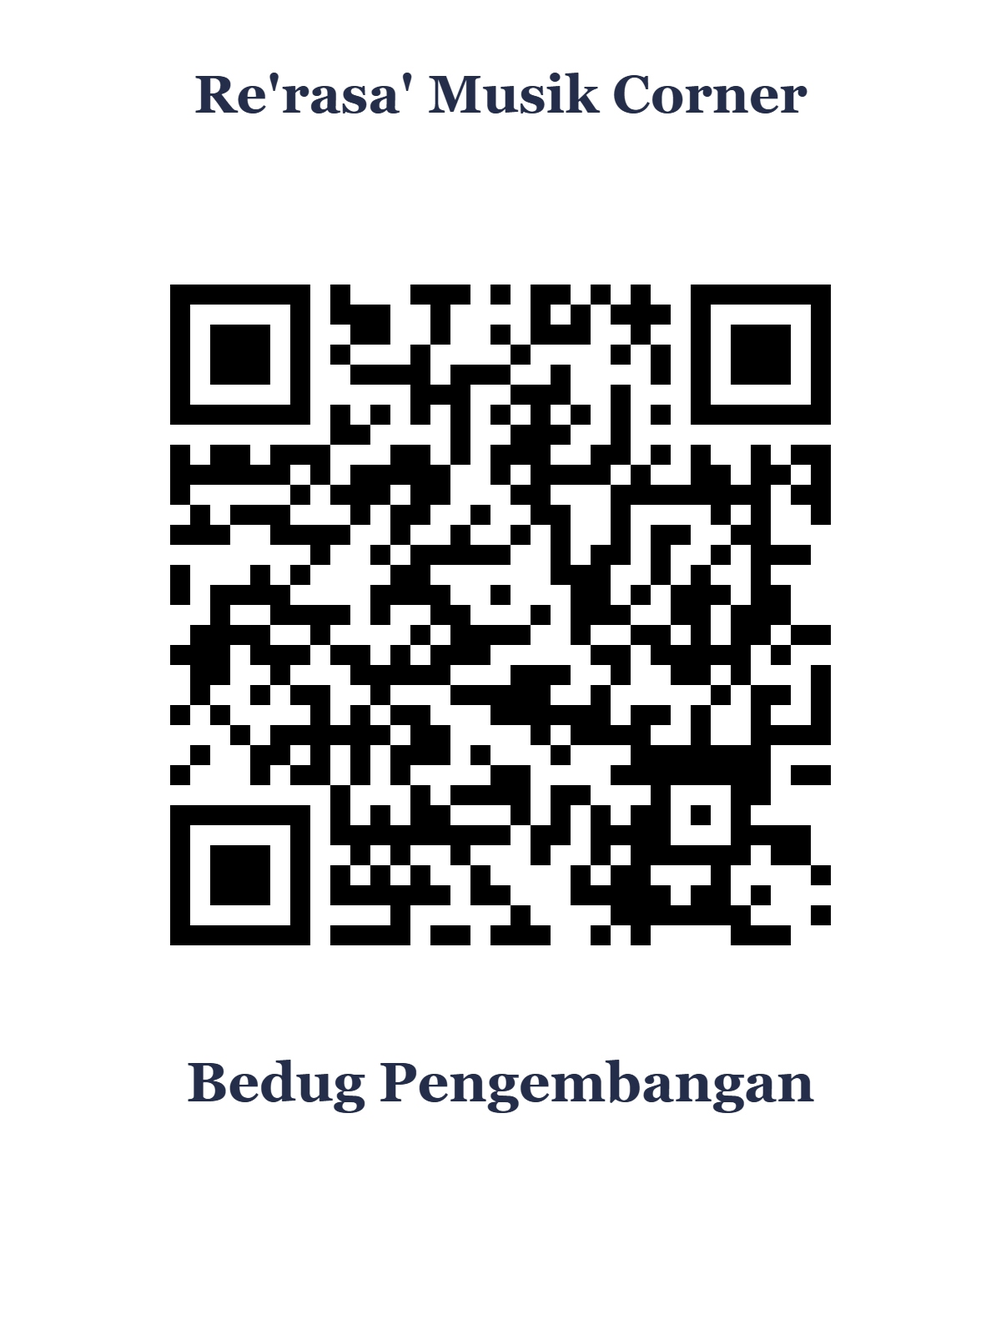
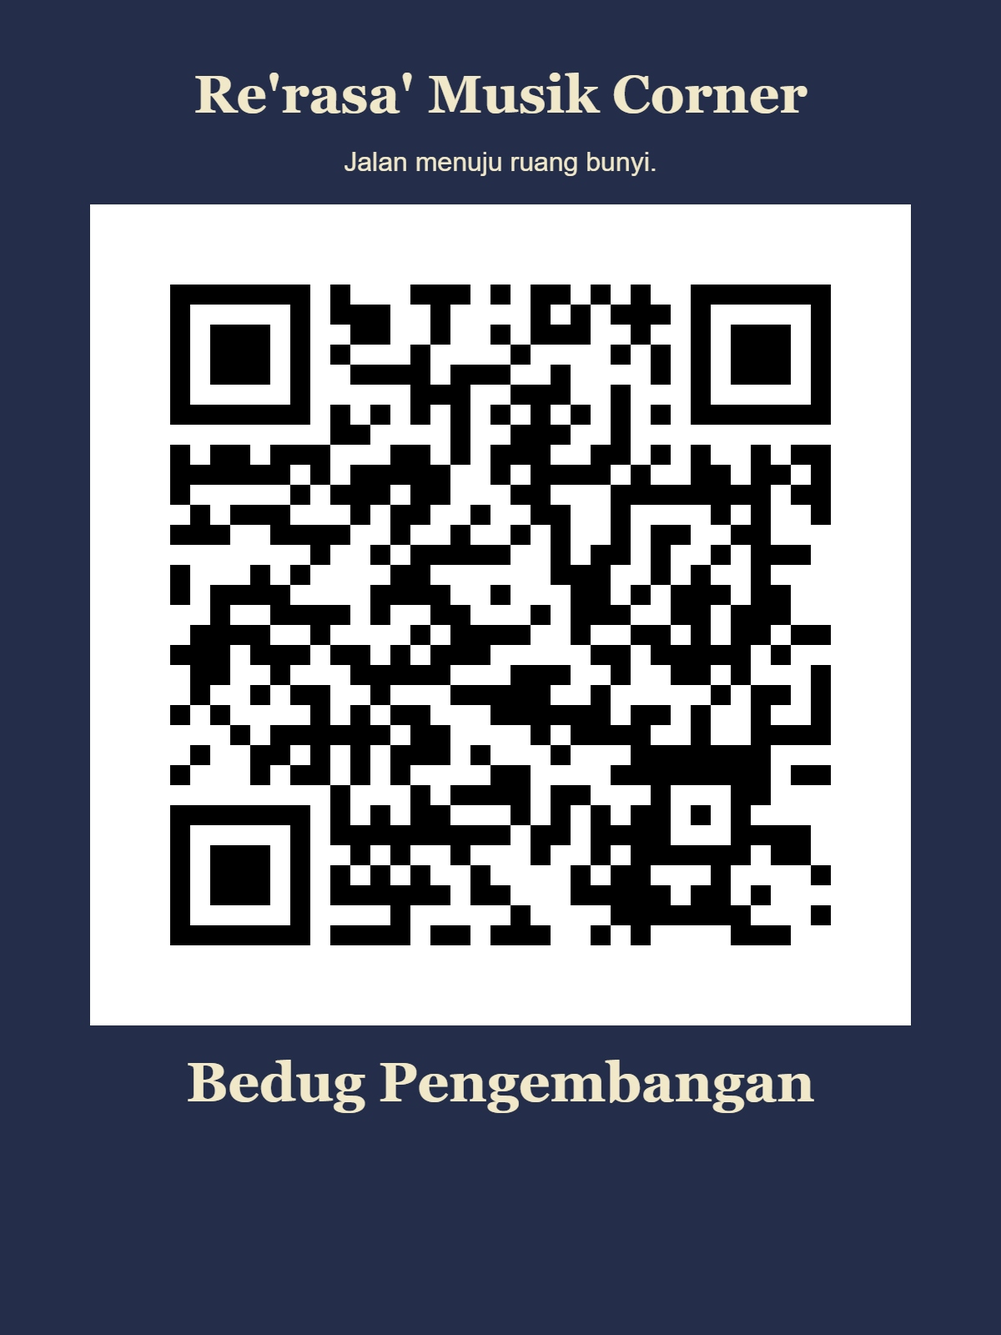
Center QR labels without URLs and apply navy cream print design

diff --git a/app.js b/app.js
@@ -18,7 +18,7 @@ if(page==='beranda'){main.innerHTML='<section class="hero"><div><span class="eye
 else if(page==='koleksi'||page==='dengarkan'){main.innerHTML=intro(page==='koleksi'?'Koleksi instrumen':'Dengarkan bunyi tradisi','Eksplorasi '+items.length+' instrumen yang tersedia dalam prototipe.')+(page==='dengarkan'?'<p class="note">Belum ada berkas rekaman asli pada sumber. Tombol Dengar demo menghasilkan nada sintetis untuk menguji pemutar; bukan representasi autentik instrumen.</p>':'')+'<form class="filters" onsubmit="return false"><label>Cari instrumen<input id="search" type="search" placeholder="Nama, daerah, atau teknik"></label><label>Klasifikasi<select id="category"><option value="">Semua klasifikasi</option>'+[...new Set(items.map(x=>x.category))].map(x=>'<option>'+esc(x)+'</option>').join('')+'</select></label><label>Wilayah<select id="region"><option value="">Semua wilayah</option>'+[...new Set(items.flatMap(x=>x.region.split(' ')))].filter(x=>!['sulawesi','selatan'].includes(x)).map(x=>'<option>'+esc(x)+'</option>').join('')+'</select></label><label>Teknik<select id="technique"><option value="">Semua teknik</option>'+[...new Set(items.map(x=>x.technique))].map(x=>'<option>'+esc(x)+'</option>').join('')+'</select></label><button type="button" id="favoriteFilter" class="secondary" aria-pressed="false">Favorit</button><button type="reset" class="secondary">Reset</button></form><p class="count" id="count" role="status"></p><div class="grid" id="results"></div>';let onlyFavorites=false;const filter=()=>{const q=document.querySelector('#search').value.trim().toLowerCase(),cat=document.querySelector('#category').value,region=document.querySelector('#region').value,tech=document.querySelector('#technique').value;const result=items.filter(x=>(!q||(x.name+' '+x.region+' '+x.keywords+' '+x.description).toLowerCase().includes(q))&&(!cat||x.category===cat)&&(!region||x.region.split(' ').includes(region))&&(!tech||x.technique===tech)&&(!onlyFavorites||favorites.includes(x.id)));document.querySelector('#count').textContent=result.length+' instrumen ditemukan';document.querySelector('#results').innerHTML=result.length?result.map(card).join(''):'<div class="empty">Tidak ada instrumen yang sesuai. Ubah pencarian atau tekan Reset.</div>'};document.querySelector('.filters').oninput=filter;document.querySelector('.filters').onreset=()=>{onlyFavorites=false;document.querySelector('#favoriteFilter').setAttribute('aria-pressed','false');setTimeout(filter,0)};document.querySelector('#favoriteFilter').onclick=e=>{onlyFavorites=!onlyFavorites;e.target.setAttribute('aria-pressed',onlyFavorites);filter()};filter()}
 else if(page==='instrumen'){const x=items.find(x=>x.id===route.split('/')[1]);if(!x){main.innerHTML=intro('Instrumen tidak ditemukan','Pilih instrumen dari koleksi.')+'<a class="button" href="#koleksi">Kembali ke koleksi</a>';return}main.innerHTML='<a href="#koleksi">← Kembali ke koleksi</a><section class="detail"><div>'+visual(x)+'</div><div><span class="eyebrow">'+esc(x.category)+'</span><h1>'+esc(x.name)+'</h1><p>'+esc(x.description)+'</p><dl><dt>Wilayah dalam prototipe</dt><dd>'+esc(x.region)+'</dd><dt>Teknik memainkan</dt><dd>'+esc(x.technique)+'</dd><dt>Karakter instrumen</dt><dd>'+esc(x.subtitle)+'</dd></dl><div class="linkrow"><button data-play="'+x.id+'">▶ Dengar demo</button><button id="save" class="secondary" aria-pressed="'+favorites.includes(x.id)+'">'+(favorites.includes(x.id)?'♥ Tersimpan':'♡ Simpan favorit')+'</button><button id="share" class="secondary">Salin tautan</button></div><p class="note">Deskripsi dan visual berasal dari prototipe. Audio demo sintetis; rekaman lapangan dan validasi kuratorial belum tersedia.</p></div></section>';document.querySelector('#save').onclick=()=>{favorites=favorites.includes(x.id)?favorites.filter(id=>id!==x.id):[...favorites,x.id];try{localStorage.setItem('rerasa-favorites',JSON.stringify(favorites))}catch{notice('Penyimpanan browser tidak tersedia; favorit disimpan selama sesi ini.')}render()};document.querySelector('#share').onclick=async()=>{try{await navigator.clipboard.writeText(location.href);notice('Tautan instrumen disalin.')}catch{notice('Salin tautan dari bilah alamat browser.')}}}
 else if(page==='wilayah'){main.innerHTML=intro('Jelajah wilayah','Pilih wilayah untuk melihat instrumen yang dicatat pada prototipe.')+'<p class="note">Daftar wilayah ini mengikuti metadata desain, belum merupakan peta persebaran budaya yang terverifikasi.</p>'+['makassar','gowa','bugis','bone','soppeng','toraja','luwu'].map(r=>'<section class="panel"><h2>'+esc(r.toUpperCase())+'</h2><div class="linkrow">'+items.filter(x=>x.region.split(' ').includes(r)).map(x=>'<a class="button" href="#instrumen/'+x.id+'">'+esc(x.name)+'</a>').join('')+'</div></section>').join('')}
-else if(page==='label'){main.innerHTML=intro('Label QR instrumen','Susunan cetak: Re\'rasa\' Musik Corner → QR → nama instrumen.')+'<div class="print-controls panel"><p>Semua QR menggunakan https://rerasa.web.id. JPG berukuran 1200 × 1600 piksel, 300 dpi (sekitar 10 × 13,5 cm).</p><button id="downloadAllJpg">Unduh semua JPG (ZIP)</button> <button id="printLabels" class="secondary">Cetak / Simpan PDF</button><p id="qrExportStatus" role="status"></p></div><div id="labels" class="labels"></div>';const drawLabels=()=>{document.querySelector('#labels').innerHTML=items.map(x=>{const q=qrcode(0,'M');q.addData(RerasaQRLabel.link(x));q.make();return '<article class="label qr-print-label"><h2>Re\'rasa\' Musik Corner</h2>'+q.createImgTag(5,20)+'<h3>'+esc(x.name)+'</h3><div class="print-controls"><button data-jpg="'+esc(x.id)+'">Unduh JPG</button><a href="'+esc(RerasaQRLabel.link(x))+'" target="_blank" rel="noopener">Uji tautan ↗</a></div></article>'}).join('');document.querySelectorAll('[data-jpg]').forEach(button=>button.onclick=async()=>{button.disabled=true;try{await RerasaQRLabel.download(items.find(x=>x.id===button.dataset.jpg))}catch(e){notice(e.message)}finally{button.disabled=false}})};drawLabels();document.querySelector('#printLabels').onclick=()=>window.print();document.querySelector('#downloadAllJpg').onclick=async e=>{e.target.disabled=true;try{await RerasaQRLabel.downloadAll(items,(done,total)=>document.querySelector('#qrExportStatus').textContent='Menyiapkan JPG '+done+' / '+total);document.querySelector('#qrExportStatus').textContent='ZIP siap diunduh.'}catch(error){notice(error.message)}finally{e.target.disabled=false}}}
+else if(page==='label'){main.innerHTML=intro('Label QR instrumen','Susunan cetak: Re\'rasa\' Musik Corner → QR → nama instrumen.')+'<div class="print-controls panel"><p>Semua QR menggunakan https://rerasa.web.id. JPG berukuran 1200 × 1600 piksel, 300 dpi (sekitar 10 × 13,5 cm).</p><button id="downloadAllJpg">Unduh semua JPG (ZIP)</button> <button id="printLabels" class="secondary">Cetak / Simpan PDF</button><p id="qrExportStatus" role="status"></p></div><div id="labels" class="labels"></div>';const drawLabels=()=>{document.querySelector('#labels').innerHTML=items.map(x=>{const q=qrcode(0,'M');q.addData(RerasaQRLabel.link(x));q.make();return '<article class="label qr-print-label"><h2>Re\'rasa\' Musik Corner</h2><p class="qr-label-subtitle">Jalan menuju ruang bunyi.</p>'+q.createImgTag(5,20)+'<h3>'+esc(x.name)+'</h3><div class="print-controls"><button data-jpg="'+esc(x.id)+'">Unduh JPG</button></div></article>'}).join('');document.querySelectorAll('[data-jpg]').forEach(button=>button.onclick=async()=>{button.disabled=true;try{await RerasaQRLabel.download(items.find(x=>x.id===button.dataset.jpg))}catch(e){notice(e.message)}finally{button.disabled=false}})};drawLabels();document.querySelector('#printLabels').onclick=()=>window.print();document.querySelector('#downloadAllJpg').onclick=async e=>{e.target.disabled=true;try{await RerasaQRLabel.downloadAll(items,(done,total)=>document.querySelector('#qrExportStatus').textContent='Menyiapkan JPG '+done+' / '+total);document.querySelector('#qrExportStatus').textContent='ZIP siap diunduh.'}catch(error){notice(error.message)}finally{e.target.disabled=false}}}
 else{main.innerHTML=intro('Halaman tidak ditemukan','Kembali untuk melanjutkan eksplorasi.')+'<a class="button" href="#beranda">Beranda</a>'}
 document.title="RE'RASA — "+(page==='instrumen'?(items.find(x=>x.id===route.split('/')[1])?.name||'Instrumen'):page);}
 document.addEventListener('click',e=>{const b=e.target.closest('[data-play]');if(b)play(b.dataset.play)});window.addEventListener('hashchange',()=>{render();window.scrollTo(0,0)});render();

diff --git a/style.css b/style.css
@@ -2,3 +2,8 @@
 :root{--paper:#fff9ec;--navy:#16213d;--teal:#00696f;--sand:#f1e8c9}*{box-sizing:border-box}body{margin:0;background:var(--paper);color:var(--navy);font:16px/1.65 system-ui,sans-serif}a{color:inherit}button,input,select{font:inherit}button,.button{cursor:pointer;border:0;border-radius:8px;background:var(--teal);color:white;padding:12px 19px;text-decoration:none;display:inline-block}button:hover,.button:hover{filter:brightness(1.13)}button.secondary{background:var(--sand);color:var(--navy)}button[aria-pressed=true]{background:var(--navy);color:white}:focus-visible{outline:3px solid #ba6b20;outline-offset:4px}header{padding:20px max(5vw,20px);display:flex;justify-content:space-between;align-items:center;gap:24px;border-bottom:1px solid #16213d22;background:var(--paper);position:sticky;top:0;z-index:2}.brand{font:700 30px Georgia,serif;text-decoration:none;letter-spacing:-1px}.brand small{display:block;font:10px system-ui;letter-spacing:2px}nav{display:flex;gap:22px}nav a{text-decoration:none;font-size:14px}nav a[aria-current]{color:var(--teal);text-decoration:underline;text-underline-offset:8px}main{max-width:1200px;margin:auto;padding:48px 24px;min-height:70vh}h1,h2,h3{font-family:Georgia,serif;line-height:1.15}h1{font-size:clamp(36px,6vw,72px);margin:14px 0 24px;max-width:800px}h2{font-size:30px}h3{font-size:24px;margin:8px 0 16px}.eyebrow{color:var(--teal);font-size:12px;letter-spacing:2px;text-transform:uppercase;font-weight:700}.hero{display:grid;grid-template-columns:1.2fr 1fr;gap:48px;align-items:center;margin-bottom:60px}.hero-art{background:var(--navy);border-radius:140px 140px 16px 16px;min-height:420px;display:grid;place-items:center;position:relative;overflow:hidden}.hero-art img{width:100%;height:440px;object-fit:cover}.hero-art span{position:absolute;bottom:20px;color:var(--paper);background:#16213dcc;padding:8px 20px}.intro{max-width:680px;color:#45464d}.grid{display:grid;grid-template-columns:repeat(3,1fr);gap:24px}.card{background:var(--navy);color:var(--paper);border-radius:12px;overflow:hidden;display:flex;flex-direction:column}.card .body{padding:24px;flex:1;display:flex;flex-direction:column}.card p{font-size:14px;color:#ebe2c3}.card .actions{margin-top:auto;display:flex;gap:8px;flex-wrap:wrap}.visual{height:210px;background:#2c3754;display:grid;place-items:center;font:italic 28px Georgia;color:#f1e8c9;position:relative}.visual img{position:absolute;width:100%;height:100%;object-fit:cover}.badge{font-size:11px;letter-spacing:1px;text-transform:uppercase;color:#99f1f8}.filters{background:var(--sand);padding:20px;border-radius:12px;display:flex;gap:12px;flex-wrap:wrap;margin:28px 0}.filters label{flex:1;min-width:150px;font-size:12px}.filters input,.filters select{display:block;width:100%;padding:10px;border:1px solid #16213d44;background:var(--paper);border-radius:6px;color:var(--navy)}.count{margin:20px 0;font-size:14px}.panel{padding:24px;background:var(--sand);border-radius:12px;margin:24px 0}.detail{display:grid;grid-template-columns:1fr 1fr;gap:36px}.detail .visual{height:450px;border-radius:12px;overflow:hidden}dt{font-size:12px;text-transform:uppercase;color:var(--teal);margin-top:20px}dd{margin:4px 0}.note{border-left:3px solid var(--teal);padding:12px 18px;background:var(--sand);font-size:14px}.labels{display:grid;grid-template-columns:repeat(2,1fr);gap:20px}.label{border:1px solid #16213d55;padding:24px;break-inside:avoid}.label code{word-break:break-all;font-size:12px}.label h2{font-size:24px}.label a{display:block}.label img{width:140px;height:140px}footer{padding:32px;text-align:center;border-top:1px solid #16213d22;font-size:14px}footer small{color:#45464d}#player{position:fixed;bottom:20px;left:50%;transform:translateX(-50%);background:var(--navy);color:white;padding:14px 24px;border-radius:12px;box-shadow:0 5px 25px #0004;z-index:5;width:min(92vw,600px)}#player:not([hidden]){display:flex;align-items:center;justify-content:space-between;gap:12px}#notice{position:fixed;right:20px;bottom:100px;background:var(--teal);color:white;border-radius:8px;padding:0;max-width:360px;z-index:6}#notice:not(:empty){padding:16px}.skip{position:absolute;left:20px;top:-100px;z-index:10}.skip:focus{top:10px;background:white;padding:10px}.empty{text-align:center;padding:50px}.linkrow{display:flex;gap:12px;flex-wrap:wrap} @media(max-width:800px){header{flex-direction:column;gap:12px;padding:14px}nav{gap:16px;max-width:100%;overflow:auto}main{padding:28px 18px}.hero,.detail{grid-template-columns:1fr;gap:24px}.hero-art{min-height:260px}.hero-art img{height:300px}.grid{grid-template-columns:repeat(2,1fr)}.detail .visual{height:300px}}@media(max-width:520px){.grid,.labels{grid-template-columns:1fr}.filters{gap:10px}.hero{margin-bottom:32px}nav a{font-size:12px}}@media print{header,footer,.print-controls,#player,#notice,.skip{display:none!important}main{padding:0;max-width:none}.labels{grid-template-columns:repeat(2,1fr)}body{background:white}.label{min-height:240px}.label a{color:black;text-decoration:none}h1{font-size:28px}.note{display:none}}
 
 .qr-print-label{text-align:center;background:#fff;color:#242d49;display:flex;align-items:center;flex-direction:column;gap:18px;padding:28px}.qr-print-label h2{font-size:24px;margin:0}.qr-print-label h3{font-size:22px;margin:0}.qr-print-label img{width:min(100%,280px);height:auto;image-rendering:pixelated}.qr-print-label .print-controls{display:flex;gap:12px;align-items:center;flex-wrap:wrap;justify-content:center}@media print{.qr-print-label{break-inside:avoid}.qr-print-label .print-controls{display:none!important}}
+
+/* Keep every printed QR centered without a URL beneath it. */
+.label{text-align:center}.label>img,.qr-print-label>img{display:block;align-self:center;margin:0 auto}.label>a,.qr-print-label a{display:none!important}.qr-print-label .print-controls{width:100%;justify-content:center}
+
+.qr-print-label{background:#242d49;color:#f1e8c9;border:1px solid #f1e8c950;print-color-adjust:exact;-webkit-print-color-adjust:exact}.qr-print-label h2,.qr-print-label h3{color:#f1e8c9}.qr-print-label .qr-label-subtitle{font:14px/1.6 system-ui;margin:0;color:#f1e8c9}.qr-print-label>img{background:#fff}.qr-print-label button{background:#f1e8c9;color:#242d49}

diff --git a/admin.html b/admin.html
@@ -1,1 +1,1 @@
-<!doctype html><html lang="id"><head><meta charset="utf-8"><meta name="viewport" content="width=device-width,initial-scale=1"><meta name="theme-color" content="#16213d"><title>Re'rasa' Musik Corner — Arsip Bunyi Sulawesi Selatan</title><link rel="stylesheet" href="style.css"><link rel="stylesheet" href="exhibition.css"><link rel="stylesheet" href="mobile.css"><link rel="stylesheet" href="guest-admin.css"><link rel="stylesheet" href="cms-admin.css"></head><body data-surface="admin"><a class="skip" href="#main">Lewati ke konten</a><header><button id="adminMenuToggle" aria-label="Buka menu admin" aria-expanded="false" aria-controls="adminNavigation"><span></span><span></span><span></span></button><a class="brand" href="#dashboard">Re'rasa' Musik Corner <small>DASHBOARD ADMIN</small></a><nav id="adminNavigation" aria-label="Navigasi admin" inert><a href="#dashboard">Ringkasan</a><a href="#hubungkan">Koneksi HP</a><a href="qr.html" target="_blank" rel="noopener">QR website utama ↗</a><a href="#label">Label QR instrumen</a><a href="#tamu">Buku tamu</a><a href="#konten">Editor koleksi</a><a href="index.html" target="_blank" rel="noopener">Lihat pameran ↗</a></nav></header><button id="adminScrim" aria-label="Tutup menu admin" tabindex="-1"></button><main id="main" tabindex="-1"></main><footer>Re'rasa' Musik Corner 2026 · Ruang eksplorasi warisan bunyi<br><small>Materi dari prototipe desain. Data dan rekaman perlu verifikasi kuratorial.</small></footer><aside id="player" hidden aria-label="Pemutar audio"><span id="track"></span><button id="stop">Hentikan</button></aside><div id="notice" role="status" aria-live="polite"></div><script src="assets/qrcode.js"></script><script src="qr-labels.js"></script><script src="data.js"></script><script src="exhibition-data.js"></script><script type="importmap">{"imports":{"three":"./assets/vendor/three.module.js"}}</script><script src="catalog.js"></script><script src="model-tools.js"></script><script src="models.js"></script><script src="model-lazy.js"></script><script src="app.js"></script><script src="exhibition.js"></script><script src="admin.js"></script><script src="admin-menu.js"></script><script src="cms-admin.js"></script><script src="cms-extended.js"></script></body></html>
+<!doctype html><html lang="id"><head><meta charset="utf-8"><meta name="viewport" content="width=device-width,initial-scale=1"><meta name="theme-color" content="#16213d"><title>Re'rasa' Musik Corner — Arsip Bunyi Sulawesi Selatan</title><link rel="stylesheet" href="style.css?v=qr-navy-20261025"><link rel="stylesheet" href="exhibition.css"><link rel="stylesheet" href="mobile.css"><link rel="stylesheet" href="guest-admin.css"><link rel="stylesheet" href="cms-admin.css"></head><body data-surface="admin"><a class="skip" href="#main">Lewati ke konten</a><header><button id="adminMenuToggle" aria-label="Buka menu admin" aria-expanded="false" aria-controls="adminNavigation"><span></span><span></span><span></span></button><a class="brand" href="#dashboard">Re'rasa' Musik Corner <small>DASHBOARD ADMIN</small></a><nav id="adminNavigation" aria-label="Navigasi admin" inert><a href="#dashboard">Ringkasan</a><a href="#hubungkan">Koneksi HP</a><a href="qr.html" target="_blank" rel="noopener">QR website utama ↗</a><a href="#label">Label QR instrumen</a><a href="#tamu">Buku tamu</a><a href="#konten">Editor koleksi</a><a href="index.html" target="_blank" rel="noopener">Lihat pameran ↗</a></nav></header><button id="adminScrim" aria-label="Tutup menu admin" tabindex="-1"></button><main id="main" tabindex="-1"></main><footer>Re'rasa' Musik Corner 2026 · Ruang eksplorasi warisan bunyi<br><small>Materi dari prototipe desain. Data dan rekaman perlu verifikasi kuratorial.</small></footer><aside id="player" hidden aria-label="Pemutar audio"><span id="track"></span><button id="stop">Hentikan</button></aside><div id="notice" role="status" aria-live="polite"></div><script src="assets/qrcode.js"></script><script src="qr-labels.js?v=qr-navy-20261025"></script><script src="data.js"></script><script src="exhibition-data.js"></script><script type="importmap">{"imports":{"three":"./assets/vendor/three.module.js"}}</script><script src="catalog.js"></script><script src="model-tools.js"></script><script src="models.js"></script><script src="model-lazy.js"></script><script src="app.js?v=qr-navy-20261025"></script><script src="exhibition.js?v=qr-navy-20261025"></script><script src="admin.js"></script><script src="admin-menu.js"></script><script src="cms-admin.js"></script><script src="cms-extended.js"></script></body></html>

diff --git a/qr-labels.js b/qr-labels.js
@@ -2,7 +2,7 @@
  const BRAND="Re'rasa' Musik Corner",ORIGIN='https://rerasa.web.id';
  function link(item){if(item.url)return item.url;return ORIGIN+'/index.html#instrumen/'+encodeURIComponent(item.id)}
  function wrap(ctx,text,max){const lines=[];let line='';for(const word of text.split(/\s+/)){const next=line?line+' '+word:word;if(line&&ctx.measureText(next).width>max){lines.push(line);line=word}else line=next}if(line)lines.push(line);return lines}
- function canvas(item){if(!window.qrcode)throw Error('Pustaka QR belum siap.');const out=document.createElement('canvas');out.width=1200;out.height=1600;const c=out.getContext('2d');c.fillStyle='#fff';c.fillRect(0,0,out.width,out.height);c.fillStyle='#242d49';c.textAlign='center';c.font='bold 64px Georgia, serif';c.fillText(BRAND,600,135);const q=qrcode(0,'M');q.addData(link(item));q.make();const count=q.getModuleCount(),cell=Math.floor(1000/(count+8)),size=(count+8)*cell,left=Math.floor((1200-size)/2),top=245;c.fillStyle='#000';for(let r=0;r<count;r++)for(let col=0;col<count;col++)if(q.isDark(r,col))c.fillRect(left+(col+4)*cell,top+(r+4)*cell,cell,cell);let font=66,lines=[];do{c.font='bold '+font+'px Georgia, serif';lines=wrap(c,item.name,1020);if(lines.length<=3)break;font-=2}while(font>=36);c.fillStyle='#242d49';const baseline=Math.max(1320,top+size+75);lines.forEach((line,i)=>c.fillText(line,600,baseline+i*(font+14)));return out}
+ function canvas(item){if(!window.qrcode)throw Error('Pustaka QR belum siap.');const out=document.createElement('canvas');out.width=1200;out.height=1600;const c=out.getContext('2d');c.fillStyle='#242d49';c.fillRect(0,0,out.width,out.height);c.fillStyle='#f1e8c9';c.textAlign='center';c.font='bold 64px Georgia, serif';c.fillText(BRAND,600,135);c.font='32px Arial, sans-serif';c.fillText('Jalan menuju ruang bunyi.',600,205);const q=qrcode(0,'M');q.addData(link(item));q.make();const count=q.getModuleCount(),cell=Math.floor(1000/(count+8)),size=(count+8)*cell,left=Math.floor((1200-size)/2),top=245;c.fillStyle='#fff';c.fillRect(left,top,size,size);c.fillStyle='#000';for(let r=0;r<count;r++)for(let col=0;col<count;col++)if(q.isDark(r,col))c.fillRect(left+(col+4)*cell,top+(r+4)*cell,cell,cell);let font=66,lines=[];do{c.font='bold '+font+'px Georgia, serif';lines=wrap(c,item.name,1020);if(lines.length<=3)break;font-=2}while(font>=36);c.fillStyle='#f1e8c9';const baseline=Math.max(1320,top+size+75);lines.forEach((line,i)=>c.fillText(line,600,baseline+i*(font+14)));return out}
  async function jpeg(item){const blob=await new Promise((resolve,reject)=>canvas(item).toBlob(b=>b?resolve(b):reject(Error('JPG gagal dibuat.')),'image/jpeg',.98));const data=new Uint8Array(await blob.arrayBuffer());for(let i=2;i+17<data.length;){if(data[i]!==255)break;const marker=data[i+1];if(marker===218||marker===217)break;const size=(data[i+2]<<8)|data[i+3];if(marker===224&&String.fromCharCode(...data.slice(i+4,i+9))==='JFIF\0'){data[i+11]=1;data[i+12]=1;data[i+13]=44;data[i+14]=1;data[i+15]=44;break}i+=2+size}return new Blob([data],{type:'image/jpeg'})}
  function save(blob,name){const url=URL.createObjectURL(blob),a=document.createElement('a');a.href=url;a.download=name;a.click();setTimeout(()=>URL.revokeObjectURL(url),30000)}
  const filename=item=>'QR-'+String(item.id||'utama').replace(/[^a-zA-Z0-9-]/g,'-')+'.jpg';

diff --git a/qr.html b/qr.html
@@ -1,3 +1,4 @@
-<!doctype html><html lang="id"><meta charset="utf-8"><meta name="viewport" content="width=device-width,initial-scale=1"><title>QR Website Re'rasa' Musik Corner</title><style>body{margin:0;background:#242d49;color:#f1e8c9;font:18px/1.7 system-ui;text-align:center}main{max-width:660px;margin:auto;padding:40px 20px}h1{font:44px Georgia}img{display:block;width:min(100%,420px);margin:28px auto;background:white}a{color:inherit}nav{display:flex;justify-content:center;gap:18px;flex-wrap:wrap}button{font:inherit;padding:12px 20px;border:0;border-radius:8px;background:#f1e8c9;color:#242d49;cursor:pointer}@media print{body{background:white;color:black}nav{display:none}main{padding:15mm}img{width:100mm}}</style><main><p>SULAWESI SELATAN / 2026</p><h1>Re'rasa' Musik Corner</h1><p>Jalan menuju ruang bunyi.</p><img src="public/qr-rerasa.svg" alt="QR menuju https://rerasa.web.id"><p><a href="https://rerasa.web.id">https://rerasa.web.id</a></p><nav><button id="downloadMainJpg">Unduh label JPG</button><a href="public/qr-rerasa.png" download="QR-WEBSITE-RERASA.png">Unduh QR PNG</a><a href="public/qr-rerasa.svg" download="QR-WEBSITE-RERASA.svg">Unduh QR SVG</a><button onclick="print()">Cetak / Simpan PDF</button><a href="index.html">Buka pameran</a></nav></main></html>
+<!doctype html><html lang="id"><meta charset="utf-8"><meta name="viewport" content="width=device-width,initial-scale=1"><title>QR Website Re'rasa' Musik Corner</title><style>body{margin:0;background:#242d49;color:#f1e8c9;font:18px/1.7 system-ui;text-align:center}main{max-width:660px;margin:auto;padding:40px 20px}h1{font:44px Georgia}img{display:block;width:min(100%,420px);margin:28px auto;background:white}a{color:inherit}nav{display:flex;justify-content:center;gap:18px;flex-wrap:wrap}button{font:inherit;padding:12px 20px;border:0;border-radius:8px;background:#f1e8c9;color:#242d49;cursor:pointer}@media print{body{background:white;color:black}nav{display:none}main{padding:15mm}img{width:100mm}}</style><main><p>SULAWESI SELATAN / 2026</p><h1>Re'rasa' Musik Corner</h1><p>Jalan menuju ruang bunyi.</p><img src="public/qr-rerasa.svg" alt="QR menuju https://rerasa.web.id"><nav><button id="downloadMainJpg">Unduh label JPG</button><a href="public/qr-rerasa.png" download="QR-WEBSITE-RERASA.png">Unduh QR PNG</a><a href="public/qr-rerasa.svg" download="QR-WEBSITE-RERASA.svg">Unduh QR SVG</a><button onclick="print()">Cetak / Simpan PDF</button><a href="index.html">Buka pameran</a></nav></main></html>
 
-<script src="assets/qrcode.js"></script><script src="qr-labels.js"></script><script>document.getElementById("downloadMainJpg").onclick=()=>RerasaQRLabel.download({id:"website-utama",name:"Gerbang Utama",url:"https://rerasa.web.id"});</script>
+<script src="assets/qrcode.js"></script><script src="qr-labels.js?v=qr-navy-20261025"></script><script>document.getElementById("downloadMainJpg").onclick=()=>RerasaQRLabel.download({id:"website-utama",name:"Gerbang Utama",url:"https://rerasa.web.id"});</script>
+
